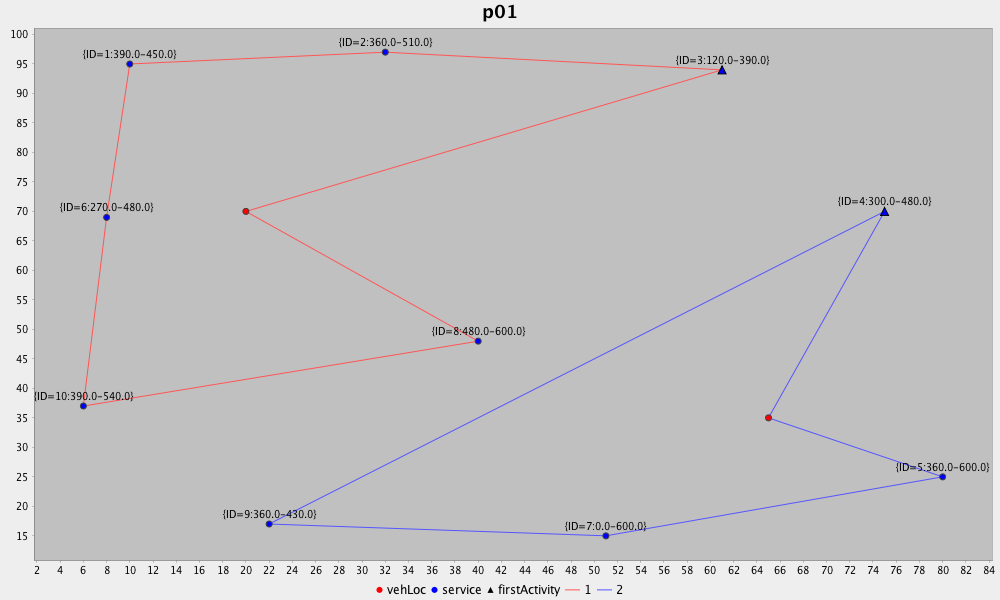
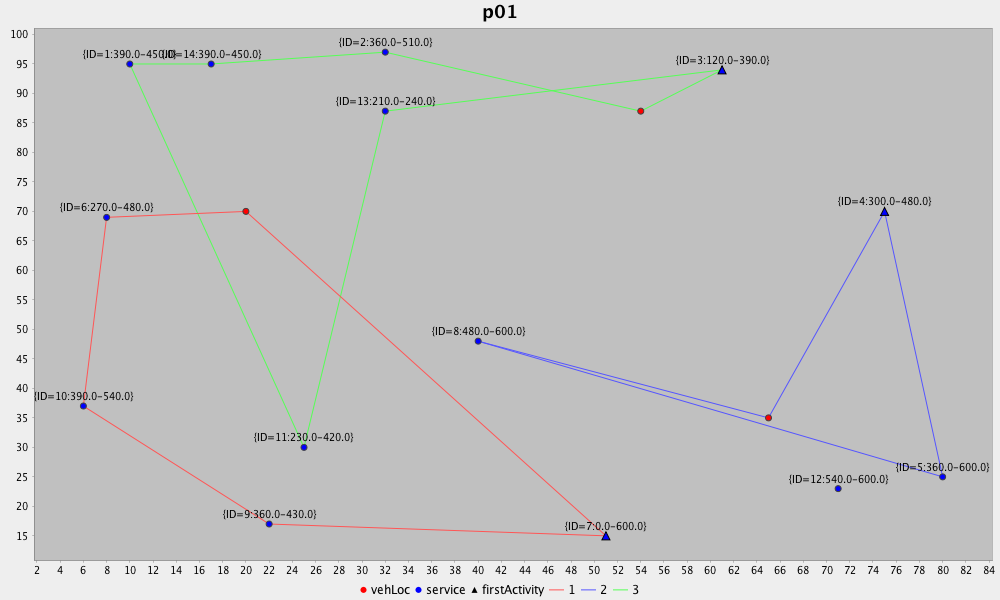
with skills

diff --git a/src/main/java/jspritTest/MultipleDepotExampleWithTimeWindowAndSkills.java b/src/main/java/jspritTest/MultipleDepotExampleWithTimeWindowAndSkills.java
@@ -3,12 +3,12 @@ package jspritTest;
 import java.util.Arrays;
 import java.util.Collection;
 
+import org.jfree.util.Log;
+
 import jsprit.analysis.toolbox.AlgorithmSearchProgressChartListener;
 import jsprit.analysis.toolbox.GraphStreamViewer;
-
 import jsprit.analysis.toolbox.StopWatch;
 import jsprit.core.algorithm.VehicleRoutingAlgorithm;
-import jsprit.core.algorithm.VehicleRoutingAlgorithmBuilder;
 import jsprit.core.algorithm.box.Jsprit;
 import jsprit.core.algorithm.listener.VehicleRoutingAlgorithmListeners.Priority;
 import jsprit.core.problem.Location;
@@ -25,27 +25,33 @@ import jsprit.core.util.Solutions;
 import jsprit.core.util.VehicleRoutingTransportCostsMatrix;
 import jspritTest.util.Plotter;
 
+public class MultipleDepotExampleWithTimeWindowAndSkills {
 
-//The key difference here is using a different xml input file
-public class VehicleServiceWithTimeWindow {
-	
 	public static void main(String... args ){
 		VehicleRoutingProblem.Builder vrpBuilder = VehicleRoutingProblem.Builder.newInstance();
-        new VrpXMLReader(vrpBuilder).read("input/solomon_c101_withTW_Dispersal1.xml");
+        new VrpXMLReader(vrpBuilder).read("input/solomon_c101_withTW_withSkills.xml");
         
         //we will manually setup the vehicles and depots
-        int nuOfVehicles = 2;
+        int nuOfVehicles = 1;
         int capacity = 80;
         Coordinate firstDepotCoord = Coordinate.newInstance(20, 70);
         Coordinate secondDepotCoord = Coordinate.newInstance(65, 35);
+        Coordinate thirdDepotCoord = Coordinate.newInstance(54, 87);
         
         int depotCounter = 1;
+        //the third vehicle will service all the people that require spanish speaking agents 
+        
         //for each depot
         for (Coordinate depotCoord : Arrays.asList(firstDepotCoord, secondDepotCoord)) {
-            //add 1 vehicles to each depot
+            //add 4 vehicles to each depot
         	for (int i = 0; i < nuOfVehicles; i++) {
-                VehicleTypeImpl vehicleType = VehicleTypeImpl.Builder.newInstance(depotCounter + "_type").addCapacityDimension(0, capacity).setCostPerDistance(1.0).setCostPerTransportTime(1.0).build();
-                VehicleImpl vehicle = VehicleImpl.Builder.newInstance(depotCounter + "_" + (i + 1) + "_vehicle").setStartLocation(Location.newInstance(depotCoord.getX(), depotCoord.getY()))
+                VehicleTypeImpl vehicleType = VehicleTypeImpl.Builder.newInstance(depotCounter + "_type")
+                		.addCapacityDimension(0, capacity)
+                		.setCostPerDistance(1.0)
+                		.setCostPerTransportTime(1.0)
+                		.build();
+                VehicleImpl vehicle = VehicleImpl.Builder.newInstance(depotCounter + "_" + (i + 1) + "_vehicle")
+                		.setStartLocation(Location.newInstance(depotCoord.getX(), depotCoord.getY()))
                 		.setType(vehicleType)
                 		.setEarliestStart(0)
                 		.setLatestArrival(540).build();
@@ -54,16 +60,29 @@ public class VehicleServiceWithTimeWindow {
             depotCounter++;
         }
         
+        for (int i = 0; i < nuOfVehicles; i++) {
+            VehicleTypeImpl vehicleType = VehicleTypeImpl.Builder.newInstance(depotCounter + "_type")
+            		.addCapacityDimension(0, capacity)
+            		.setCostPerDistance(1.0)
+            		.setCostPerTransportTime(1.0)
+            		.build();
+            VehicleImpl vehicle = VehicleImpl.Builder.newInstance(depotCounter + "_" + (i + 1) + "_vehicle")
+            		.setStartLocation(Location.newInstance(thirdDepotCoord.getX(), thirdDepotCoord.getY()))
+            		.setType(vehicleType)
+            		.setEarliestStart(0)
+            		.setLatestArrival(600)
+            		.addSkill("spanish").build();
+            vrpBuilder.addVehicle(vehicle);
+        }
+        
         vrpBuilder.setFleetSize(FleetSize.FINITE);
 
-        //
-        
 		/*
          * build the problem
 		 */
         VehicleRoutingProblem vrp = vrpBuilder.build();
         
-        VehicleRoutingAlgorithm vra = Jsprit.Builder.newInstance(vrp).buildAlgorithm();
+        VehicleRoutingAlgorithm vra = Jsprit.Builder.newInstance(vrp).setProperty(Jsprit.Parameter.THREADS, "1").buildAlgorithm();
         vra.getAlgorithmListeners().addListener(new StopWatch(), Priority.HIGH);
         vra.getAlgorithmListeners().addListener(new AlgorithmSearchProgressChartListener("output/progress.png"));
         Collection<VehicleRoutingProblemSolution> solutions = vra.searchSolutions();
@@ -75,7 +94,7 @@ public class VehicleServiceWithTimeWindow {
         new GraphStreamViewer(vrp, Solutions.bestOf(solutions)).setRenderDelay(50).display();
 	}
 	
-	//simple method used to create the cost matrix using Euclidean deistance, we can easily change the euclidean cost matrix however to be of a travel cost instead
+	//simple method used to create the cost matrix using Euclidean distance, we can easily change the euclidean cost matrix however to be of a travel cost instead
 	private static VehicleRoutingTransportCostsMatrix createMatrix(VehicleRoutingProblem.Builder vrpBuilder) {
         VehicleRoutingTransportCostsMatrix.Builder matrixBuilder = VehicleRoutingTransportCostsMatrix.Builder.newInstance(true);
         for (String from : vrpBuilder.getLocationMap().keySet()) {
@@ -92,4 +111,5 @@ public class VehicleServiceWithTimeWindow {
         }
         return matrixBuilder.build();
     }
+	
 }
